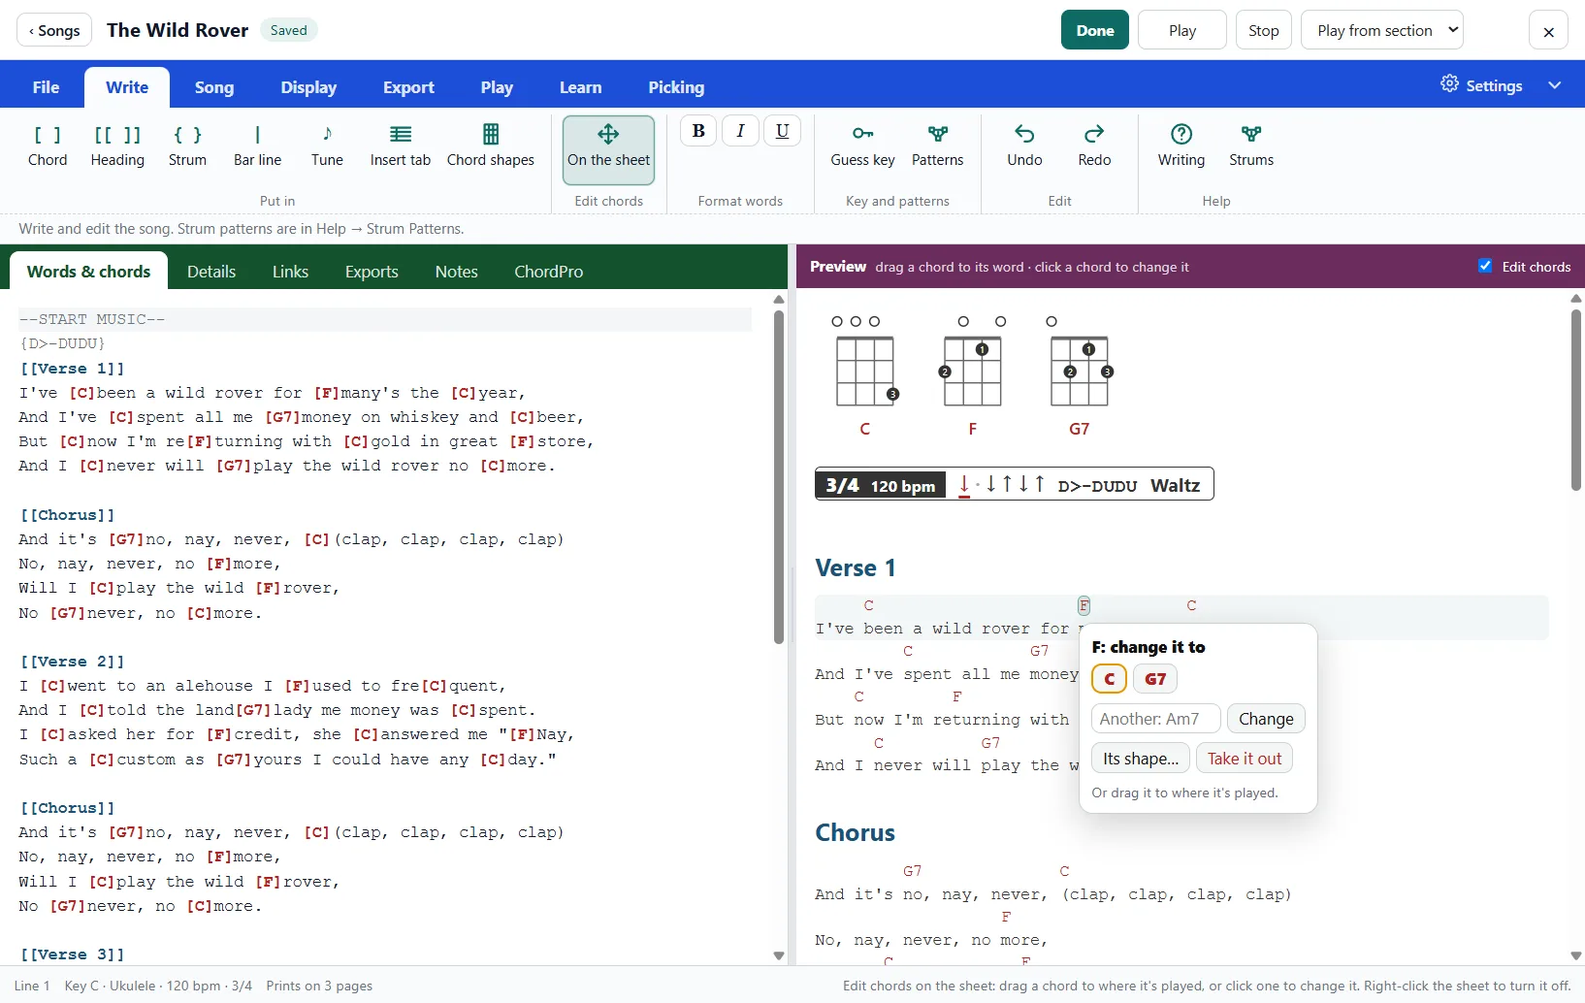
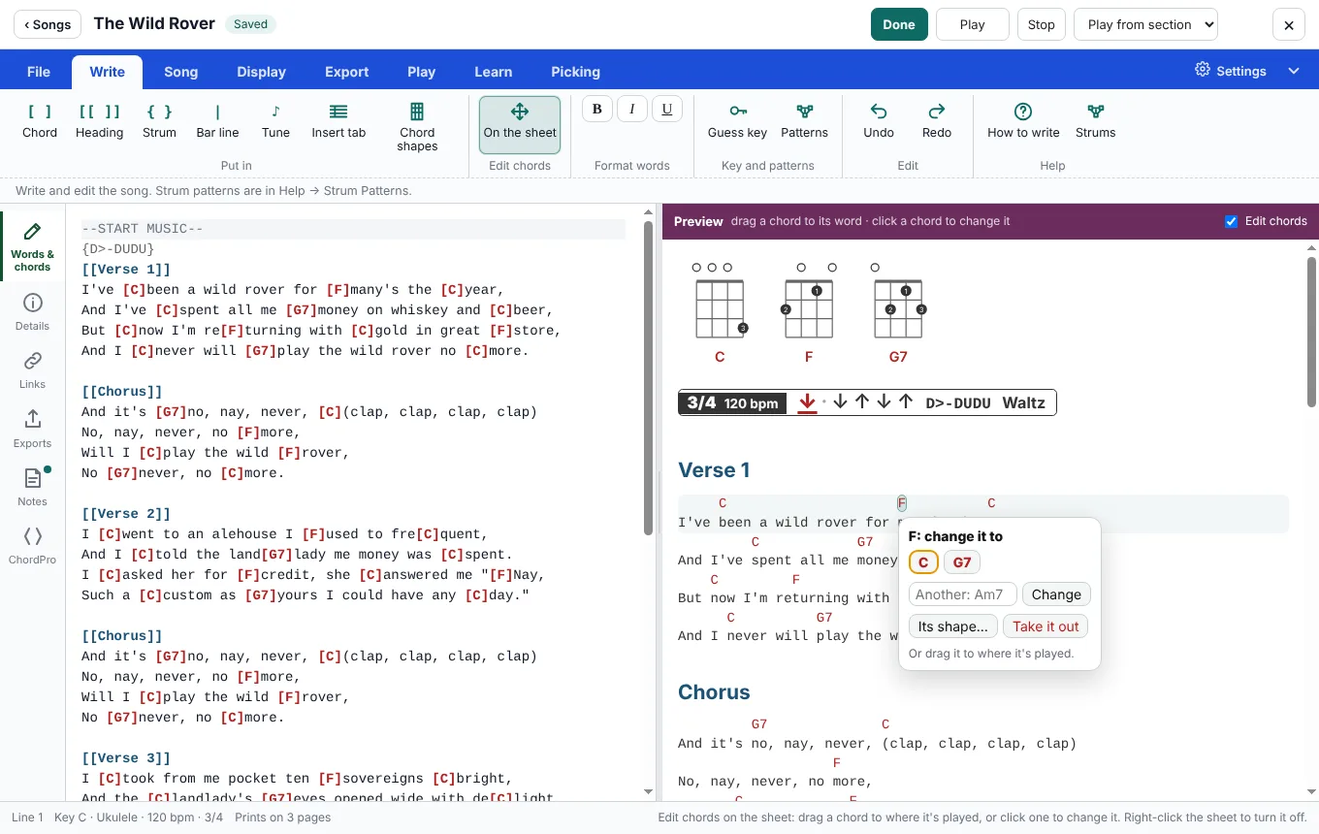
v4.98.0: song tabs as a rail down the left; hide the column while reading
Claude-Session: https://claude.ai/code/session_01UbrCRY8oACMXjLtCFCbaus

diff --git a/index.html b/index.html
@@ -121,7 +121,7 @@
       html[data-editing] #editWordsButton { background: var(--accent); color: #fff; }
       /* 4.95.1: reading, the song's Details, Links, Exports, Notes and ChordPro stay beside the sheet,
          in a narrower column; only Words & chords waits for Edit words & chords */
-      html:not([data-editing]) .workspace { grid-template-columns: minmax(260px, 0.6fr) 6px minmax(0, 1.4fr) !important; }
+      html:not([data-editing]) .workspace { grid-template-columns: minmax(330px, 0.6fr) 6px minmax(0, 1.4fr) !important; }
       html:not([data-editing]) [data-edit-only] { display: none !important; }
       html:not([data-editing]) .preview-head, html:not([data-editing]) #cursorLabel { display: none; }
       /* 4.94: reading, a firm line between the tools and the song */
@@ -676,49 +676,68 @@
       .shape-own input { font: 600 15px Consolas, "Courier New", monospace; width: 160px; }
 
 
+      /* 4.98: the song's sections are a rail of tabs down the left edge, so the column beside it keeps
+         its width for the words; reading, the column can be hidden and the sheet has the width */
       .editor-panel {
         display: grid;
-        grid-template-rows: auto 1fr;
+        grid-template-columns: 68px minmax(0, 1fr);
+        grid-template-rows: minmax(0, 1fr);
       }
 
       .editor-tabs {
-        min-height: 37px;
-        background: var(--edit-green) !important;
-        border-bottom-color: var(--edit-green) !important;
         display: flex;
-        align-items: center;
+        flex-direction: column;
+        align-items: stretch;
         gap: 2px;
-        padding: 6px 8px 0;
-        border-bottom: 1px solid var(--border);
+        padding: 8px 0;
         background: var(--status-bg);
+        border-right: 1px solid var(--border);
+        overflow-y: auto;
+        min-height: 0;
       }
 
       .editor-tabs button {
-        border: 1px solid transparent;
-        border-bottom: 0;
+        position: relative;
+        display: flex;
+        flex-direction: column;
+        align-items: center;
+        gap: 3px;
+        border: 0;
+        border-left: 3px solid transparent;
         background: transparent;
         color: var(--muted);
-        border-radius: 8px 8px 0 0;
-        padding: 6px 14px;
+        padding: 8px 4px 7px 1px;
         font: inherit;
+        font-size: 11px;
+        line-height: 1.2;
+        text-align: center;
         cursor: pointer;
-        margin-bottom: -1px;
       }
-
+      .editor-tabs button:hover { background: var(--accent-soft); color: var(--text); }
       .editor-tabs button.active {
         background: var(--panel-bg);
-        border-color: var(--panel-bg);
+        border-left-color: var(--edit-green);
         color: var(--edit-green);
         font-weight: 700;
       }
-      .editor-tabs button:not(.active) { color: rgba(255, 255, 255, 0.85); }
-      .editor-tabs button:not(.active):hover { color: #fff; }
-      .editor-tabs .notes-status { color: rgba(255, 255, 255, 0.8); }
+      .editor-tabs button svg { flex: none; }
+      .editor-tabs .rail-label { overflow-wrap: anywhere; }
+      /* A dot on Notes when the song has notes */
+      #tabNotes.has-notes::after { content: ""; position: absolute; top: 7px; right: 14px; width: 8px; height: 8px; border-radius: 50%; background: var(--accent); }
+      .editor-tabs .rail-toggle { margin-top: auto; }
+      html[data-editing] .editor-tabs [data-read-only] { display: none; }
+      /* Hidden: the rail stays, and the sheet has the rest */
+      html[data-panel-closed]:not([data-editing]) .workspace { grid-template-columns: 68px 0 minmax(0, 1fr) !important; }
+      html[data-panel-closed]:not([data-editing]) .editor-body { display: none; }
+      html[data-panel-closed]:not([data-editing]) #splitter { visibility: hidden; }
+      html[data-panel-closed]:not([data-editing]) .editor-tabs button.active { background: transparent; border-left-color: transparent; color: var(--muted); font-weight: 400; }
+      html[data-panel-closed]:not([data-editing]) .rail-toggle svg { transform: scaleX(-1); }
 
       .notes-status {
-        margin-left: auto;
-        font-size: 12px;
+        font-size: 11px;
         color: var(--muted);
+        text-align: center;
+        padding: 4px 2px;
       }
 
       .editor-body {
@@ -2940,14 +2959,15 @@
 
       <div class="workspace" id="workspace">
         <section class="panel editor-panel">
-          <div class="editor-tabs" role="tablist">
-            <button id="tabSong" type="button" role="tab" class="active" data-edit-only>Words &amp; chords</button>
-            <button id="tabDetails" type="button" role="tab" title="About the song: artist, year, written by, album, source, tags, difficulty and its key">Details</button>
-            <button id="tabLinks" data-feature="songLinks" type="button" role="tab" title="Web pages for the song: the original on YouTube, a uke play-along, a lesson, Wikipedia">Links</button>
-            <button id="tabExports" data-feature="songExports" type="button" role="tab" title="Everything exported for this song: look at it, see what's out of date, delete it">Exports</button>
-            <button id="tabNotes" type="button" role="tab" title="Your notes on the song, and its history">Notes</button>
-            <button id="tabChordPro" data-feature="songChordPro" type="button" role="tab" title="The song's ChordPro fields: everything from an imported ChordPro file is kept here, and written out again in ChordPro exports">ChordPro</button>
+          <div class="editor-tabs" role="tablist" aria-orientation="vertical">
+            <button id="tabSong" type="button" role="tab" class="active" data-edit-only title="The song's words and chords, to change"><span data-icon="rename"></span><span class="rail-label">Words &amp; chords</span></button>
+            <button id="tabDetails" type="button" role="tab" title="About the song: artist, year, written by, album, source, tags, difficulty and its key"><span data-icon="info"></span><span class="rail-label">Details</span></button>
+            <button id="tabLinks" data-feature="songLinks" type="button" role="tab" title="Web pages for the song: the original on YouTube, a uke play-along, a lesson, Wikipedia"><span data-icon="link"></span><span class="rail-label">Links</span></button>
+            <button id="tabExports" data-feature="songExports" type="button" role="tab" title="Everything exported for this song: look at it, see what's out of date, delete it"><span data-icon="export"></span><span class="rail-label">Exports</span></button>
+            <button id="tabNotes" type="button" role="tab" title="Your notes on the song, and its history"><span data-icon="note"></span><span class="rail-label">Notes</span></button>
+            <button id="tabChordPro" data-feature="songChordPro" type="button" role="tab" title="The song's ChordPro fields: everything from an imported ChordPro file is kept here, and written out again in ChordPro exports"><span data-icon="cho"></span><span class="rail-label">ChordPro</span></button>
             <span id="notesStatus" class="notes-status"></span>
+            <button id="panelToggle" class="rail-toggle" type="button" data-read-only title="Hide this column, so the song has the width"><span data-icon="chevronLeft"></span><span class="rail-label">Hide</span></button>
           </div>
           <div class="editor-body">
             <div id="editorHost" class="editor-host"></div>
@@ -7127,6 +7147,9 @@ The [F]curly brackets at the top set the [C]strum: D down, U up.
             ? 'Notes about this song: key, capo, where it came from, things to practise…'
             : 'Save the song to keep notes with it.';
           notesStatus.textContent = '';
+          // 4.98: a dot on Notes; and, until you've chosen, the column shows for a song with notes
+          const hasNotes = markSongNotes();
+          if (songPanelChoice() === null) setSongPanelClosed(!hasNotes, { remember: false });
         }
 
         async function flushNotes() {
@@ -7152,6 +7175,7 @@ The [F]curly brackets at the top set the [C]strum: D down, U up.
           try {
             state.notes = await window.ukemusic.addImportNotes({ folder: state.song.folder, text });
             notesEditor.value = state.notes;
+            markSongNotes();
           } catch (error) {
             window.ukemusicLogError('Could not add to notes.txt', error);
           }
@@ -7163,6 +7187,7 @@ The [F]curly brackets at the top set the [C]strum: D down, U up.
           try {
             state.notes = await window.ukemusic.appendNote({ folder: state.song.folder, line });
             notesEditor.value = state.notes;
+            markSongNotes();
           } catch (error) {
             window.ukemusicLogError('Could not add to notes.txt', error);
           }
@@ -7172,6 +7197,7 @@ The [F]curly brackets at the top set the [C]strum: D down, U up.
           notesPending = true;
           window.ukemusic.setNotesPending(true);
           notesStatus.textContent = 'Saving…';
+          markSongNotes();
           clearTimeout(notesTimer);
           notesTimer = setTimeout(flushNotes, 800);
         });
@@ -11018,6 +11044,34 @@ function showTab(tab) {
         document.getElementById('tabExports').addEventListener('click', () => showTab('exports'));
         document.getElementById('tabChordPro').addEventListener('click', () => showTab('chordpro'));
 
+        // 4.98: reading, the song's column can be hidden so the sheet has the width. Click the open
+        // tab (or Hide) to hide it; any tab shows it again. Kept between songs; until you choose, it
+        // shows for a song with notes and hides for one without.
+        function songPanelChoice() {
+          try { return localStorage.getItem('ukemusic.songPanelClosed'); } catch (_err) { return null; }
+        }
+        function setSongPanelClosed(closed, { remember = true } = {}) {
+          const was = document.documentElement.hasAttribute('data-panel-closed');
+          document.documentElement.toggleAttribute('data-panel-closed', Boolean(closed));
+          const toggle = document.getElementById('panelToggle');
+          toggle.querySelector('.rail-label').textContent = closed ? 'Show' : 'Hide';
+          toggle.title = closed ? 'Show the column beside the song' : 'Hide this column, so the song has the width';
+          if (remember) { try { localStorage.setItem('ukemusic.songPanelClosed', closed ? '1' : '0'); } catch (_err) { /* this time only */ } }
+          if (was !== Boolean(closed) && !isEditing()) requestAnimationFrame(() => window.dispatchEvent(new Event('resize')));
+        }
+        document.querySelector('.editor-tabs').addEventListener('click', (event) => {
+          const button = event.target.closest('button[role="tab"]');
+          if (!button || isEditing()) return;
+          if (document.documentElement.hasAttribute('data-panel-closed')) setSongPanelClosed(false);
+          else if (button.classList.contains('active')) { setSongPanelClosed(true); event.stopPropagation(); }
+        }, true);
+        document.getElementById('panelToggle').addEventListener('click', () => setSongPanelClosed(!document.documentElement.hasAttribute('data-panel-closed')));
+        function markSongNotes() {
+          const has = Boolean(notesEditor.value.trim());
+          document.getElementById('tabNotes').classList.toggle('has-notes', has);
+          return has;
+        }
+
         // ── ChordPro tab (4.27): the song's ChordPro fields, kept in chordpro.txt ──
         // Linked fields show (and change) the song's own value; the rest are kept as they were.
         const CP_LINKS = {
@@ -12448,6 +12502,10 @@ function showTab(tab) {
           web: 'M12 21a9 9 0 1 0 0-18 9 9 0 0 0 0 18zM3 12h18M12 3c3 3 3 15 0 18M12 3c-3 3-3 15 0 18',
           lyrics: 'M4 6h16M4 10h16M4 14h10M4 18h8',
           cho: 'M8 4L4 12l4 8M16 4l4 8-4 8',
+          info: 'M12 21a9 9 0 1 0 0-18 9 9 0 0 0 0 18zM12 11v6M12 7.5h.01',
+          link: 'M10 14a4 4 0 0 0 5.66 0l3-3a4 4 0 0 0-5.66-5.66l-1 1M14 10a4 4 0 0 0-5.66 0l-3 3a4 4 0 0 0 5.66 5.66l1-1',
+          note: 'M5 3h10l4 4v14H5zM15 3v4h4M8 12h8M8 16h6',
+          chevronLeft: 'M15 5l-7 7 7 7',
           shape: 'M6 3h12v18H6zM10 3v18M14 3v18M6 8h12M6 13h12M10 10.5h.01M14 15.5h.01',
           setlist: 'M8 6h12M8 12h12M8 18h12M4 6h.01M4 12h.01M4 18h.01',
           help: 'M12 21a9 9 0 1 0 0-18 9 9 0 0 0 0 18zM9.5 9a2.5 2.5 0 1 1 3.5 2.3c-.6.3-1 .9-1 1.6v.6M12 17h.01',

diff --git a/test/v498.test.js b/test/v498.test.js
@@ -1,0 +1,32 @@
+// 4.98: the song's sections are a rail of tabs down the left edge; reading, the column beside it can be hidden
+const assert = require('assert');
+const fs = require('fs');
+const path = require('path');
+function test(name, fn) {
+  try { fn(); console.log(`✓ ${name}`); } catch (error) { console.error(`✗ ${name}`); throw error; }
+}
+const DESKTOP = fs.readFileSync(path.join(__dirname, '..', 'index.html'), 'utf8').replace(/\r\n/g, '\n');
+
+test('the tabs are a rail down the left, each an icon with its name', () => {
+  assert.ok(DESKTOP.includes('<div class="editor-tabs" role="tablist" aria-orientation="vertical">'));
+  assert.ok(DESKTOP.includes('grid-template-columns: 68px minmax(0, 1fr);'));
+  for (const [id, icon, label] of [['tabSong', 'rename', 'Words &amp; chords'], ['tabDetails', 'info', 'Details'], ['tabLinks', 'link', 'Links'], ['tabExports', 'export', 'Exports'], ['tabNotes', 'note', 'Notes'], ['tabChordPro', 'cho', 'ChordPro']]) {
+    assert.match(DESKTOP, new RegExp(`<button id="${id}"[^>]*><span data-icon="${icon}"></span><span class="rail-label">${label}</span></button>`), id);
+  }
+  for (const icon of ['info', 'link', 'note', 'chevronLeft']) assert.match(DESKTOP, new RegExp(`\\n          ${icon}: '`), icon);
+});
+
+test('reading, the column hides: the open tab or Hide; any tab shows it; kept between songs', () => {
+  assert.ok(DESKTOP.includes('<button id="panelToggle" class="rail-toggle" type="button" data-read-only'));
+  assert.ok(DESKTOP.includes('html[data-panel-closed]:not([data-editing]) .workspace { grid-template-columns: 68px 0 minmax(0, 1fr) !important; }'));
+  assert.ok(DESKTOP.includes('html[data-panel-closed]:not([data-editing]) #splitter { visibility: hidden; }'), 'the splitter keeps its grid place');
+  assert.ok(DESKTOP.includes("else if (button.classList.contains('active')) { setSongPanelClosed(true); event.stopPropagation(); }"));
+  assert.ok(DESKTOP.includes("localStorage.setItem('ukemusic.songPanelClosed', closed ? '1' : '0')"));
+  assert.ok(DESKTOP.includes('if (songPanelChoice() === null) setSongPanelClosed(!hasNotes, { remember: false });'));
+  assert.ok(DESKTOP.includes('html[data-editing] .editor-tabs [data-read-only] { display: none; }'), 'editing, the column is always there');
+});
+
+test('a dot on Notes when the song has notes', () => {
+  assert.ok(DESKTOP.includes('#tabNotes.has-notes::after'));
+  assert.ok((DESKTOP.match(/markSongNotes\(\);/g) || []).length >= 3);
+});

diff --git a/test/v4951.test.js b/test/v4951.test.js
@@ -11,9 +11,9 @@ function test(name, fn) {
 const DESKTOP = fs.readFileSync(path.join(__dirname, '..', 'index.html'), 'utf8').replace(/\r\n/g, '\n');
 
 test('the song\'s other tabs while reading; Words & chords while editing', () => {
-  assert.ok(DESKTOP.includes('html:not([data-editing]) .workspace { grid-template-columns: minmax(260px, 0.6fr) 6px minmax(0, 1.4fr) !important; }'));
+  assert.ok(DESKTOP.includes('html:not([data-editing]) .workspace { grid-template-columns: minmax(330px, 0.6fr) 6px minmax(0, 1.4fr) !important; }'));
   assert.ok(!DESKTOP.includes('html:not([data-editing]) .workspace > .editor-panel'), 'the column isn\'t hidden');
-  assert.ok(DESKTOP.includes('<button id="tabSong" type="button" role="tab" class="active" data-edit-only>Words &amp; chords</button>'));
+  assert.match(DESKTOP, /<button id="tabSong" [^>]*data-edit-only[^>]*>.*Words &amp; chords/); // 4.98: in the rail
   assert.ok(DESKTOP.includes("if (on && !was) showTab('song');"));
   assert.ok(DESKTOP.includes("if (!on && document.getElementById('tabSong').classList.contains('active')) showTab(state.readingTab || (notesEditor.value.trim() ? 'notes' : 'details'));"));
   assert.match(DESKTOP, /if \(!isEditing\(\)\) state\.readingTab = tab;/);

diff --git a/test/v493.test.js b/test/v493.test.js
@@ -18,8 +18,8 @@ const F = require('../src/feature-levels.js');
 
 test('the song opens as the sheet: the editor, the Write tab and Tidy chords only while editing', () => {
   // 4.95.1: reading, the song's other tabs stay beside the sheet; only Words & chords waits for editing
-  assert.ok(DESKTOP.includes('html:not([data-editing]) .workspace { grid-template-columns: minmax(260px, 0.6fr) 6px minmax(0, 1.4fr) !important; }'));
-  assert.match(DESKTOP, /<button id="tabSong" type="button" role="tab" class="active" data-edit-only>Words &amp; chords<\/button>/);
+  assert.ok(DESKTOP.includes('html:not([data-editing]) .workspace { grid-template-columns: minmax(330px, 0.6fr) 6px minmax(0, 1.4fr) !important; }'));
+  assert.match(DESKTOP, /<button id="tabSong" type="button" role="tab" class="active" data-edit-only[^>]*><span data-icon="rename"><\/span><span class="rail-label">Words &amp; chords<\/span><\/button>/); // 4.98: in the rail
   assert.ok(DESKTOP.includes('html:not([data-editing]) [data-edit-only] { display: none !important; }'));
   assert.match(DESKTOP, /<button id="ribbonTabWrite" data-edit-only class="ribbon-tab"/);
   assert.match(DESKTOP, /<button id="convertLinesButton" data-feature="tidy" data-edit-only/);

diff --git a/HANDOVER.md b/HANDOVER.md
@@ -897,6 +897,7 @@ Full description: **INSTRUMENTS.md** (users and developers).
 | 4.96.0 | Simple view reviewed: more in it where it made little difference; Settings starts with instrument and the simple view; home Settings is for all songs |
 | 4.97.0 | A user guide for phones and tablets, with iPhone pictures; linked from the top of the main guide |
 | 4.97.1 | One name, How to write songs; the user guides get Writing a song: the basics, and links to it and to ChordPro |
+| 4.98.0 | Song tabs as a rail down the left; the column can be hidden while reading |
 | 4.53.0 (ribbon layout) | index.html ribbon rebuilt to one standard (`/* ── 4.53: the ribbon's layout ── */` at the end of the main style block): `.rib-group` = `.rib-items` (height `--rib-h`, 62px) over `.rib-label`; large `.rib-button`s; `.rib-col` = up to two rows of `--rib-row` (28px) small controls (`.rib-field`, `.rib-row`, `.rib-check`, `.rib-small`, `.rib-note`); a column whose fields have labels becomes a two-column grid (labels right-aligned, controls lined up). One setting in a group: no label (aria-label instead), the group names it. `.ribbon-panel` doesn't wrap: `foldRibbon()` folds groups from the right into generated `.rib-fold` buttons (`.rib-group.folded`, `.open` shows the group as a popover); runs on resize; `revealElement` opens a folded group. Own-setting mark moved to the group caption (`:has(.rib-own)`). Tab renamed Picking. `#writtenAccompaniment` goes in the strum column's second row. Tests: test/ribbon-layout.test.js. |
 | 4.53.0 | Ribbon buttons: content-sized (56px minimum, 88px usual maximum, 104px for long labels), top-aligned controls and retained icons when Play/Pause changes. File/Write use the requested short labels; Archive removed from File, Strums moved to native Help; This song renamed Song with its panel unchanged. `src/song-ui.js` shares `setControlLabel` and `memoryPlayLabel` across desktop/web. Learn labels describe chord visibility; “Play in new key”, “Practise trouble spots”, “Circle of fifths”; Pick “Choose picking” retains current-line insertion. Ribbon panels share one CSS grid row for stable height; inactive panels are invisible and inert. Section captions replace repeated upper labels; compact loop wording and Auto feel/Even selections retain existing values. The screenshot review checks equal header heights at 1440 and 1120px. Playback behaviour is unchanged. `test/song-ui-labels.test.js` covers labels, retained icons and targeted review arguments. UI review preserves the first app argument and supports section filters for iPad/iPhone as well as desktop. |
 | 2.5.0 | Initial release. Parser, HTML/Markdown renderers, Electron UI, CodeMirror, live preview, diagrams, tablature, INI config, editable stylesheet. |

diff --git a/docs/user-guide.md b/docs/user-guide.md
@@ -67,7 +67,10 @@ Paste a chord sheet from a website and ukemusic writes most of this for you. Eve
 
 ## A song: reading and editing
 
-A song opens as the sheet to play from. Beside it, in a narrower column, are the song's **Details** (artist, year, key, tempo, time, tags), **Notes**, **Links**, **Exports** and **ChordPro** fields. The column opens on the notes, if the song has any, or on the tab you last looked at.
+A song opens as the sheet to play from. Down the left edge is a strip of the song's tabs: **Details** (artist, year, key, tempo, time, tags), **Links**, **Exports**, **Notes** and **ChordPro** fields. Click one and it opens in a column beside the sheet; it opens on the notes, if the song has any (a dot on **Notes** says so), or on the tab you last looked at.
+
+- Click the open tab again, or **Hide** at the bottom of the strip, and the sheet has the whole width. Any tab (or **Show**) brings the column back.
+- ukemusic keeps it the way you left it, from song to song.
 
 ![A song open as the sheet, with its notes beside it and the tools above it](../site/img/guide/desktop-S1.jpg)
 
@@ -88,7 +91,7 @@ Press **✎ Edit words & chords**. The words and chords are on the left, the she
 
 - Type the words with the chords in square brackets (see [Writing a song: the basics](#writing-a-song-the-basics)); [How to write songs](../WRITING.md) has everything else you can type.
 - The **Write** tab has buttons for what's harder to type (a chord, a heading, a strum, a bar line, tab), Undo and Redo, and **How to write** (F1), which opens [How to write songs](../WRITING.md) in the app.
-- **Words & chords** joins the song's other tabs while you edit; **Done** goes back to the tab you were reading.
+- **Words & chords** joins the top of the strip while you edit, and the column is always open; **Done** goes back to the tab you were reading (or to the sheet alone, if the column was hidden).
 
 **Edit chords on the sheet** lets you move chords with the mouse instead: turn it on with **Write → On the sheet**, the **Edit chords** box over the sheet, or a right-click on the sheet. Then drag a chord to the word where it's played, click a chord to change it or take it out, or click in the words to put one there.
 

diff --git a/README.md b/README.md
@@ -167,7 +167,7 @@ The guides and the changelog are pages of [the website](https://markbeachill.git
 ## Getting around the desktop app
 
 - ukemusic opens on **Songs** (the library), with **Free Practice** the other tab at the top. Songs show as tiles, or as a list with every detail (the choice is kept). **New song** asks how: paste one from a website, write your own, or import a file. Three old, copyright-free starter songs show how songs are written.
-- A song opens as the **sheet to play from**, with its Details, Notes, Links, Exports and ChordPro fields in a narrower column beside it. **✎ Edit words & chords** (or F2) shows the words and chords beside it to change them, and **Done** goes back; **×** at the top right closes the song. A new or imported song opens ready to change (Settings → Opening a song can make every song open that way). Anything you change, editing or not (the words, or the tempo or picking pattern while playing), waits for **Save** or **Discard**, at the top beside the song's name.
+- A song opens as the **sheet to play from**, with a strip of tabs down the left for its Details, Links, Exports, Notes and ChordPro fields: one opens in a column beside the sheet, and clicking it again hides the column so the sheet has the width. **✎ Edit words & chords** (or F2) shows the words and chords beside it to change them, and **Done** goes back; **×** at the top right closes the song. A new or imported song opens ready to change (Settings → Opening a song can make every song open that way). Anything you change, editing or not (the words, or the tempo or picking pattern while playing), waits for **Save** or **Discard**, at the top beside the song's name.
 - In a song, the tabs hold everything (File → Close goes back to your songs). **View** has the look (diagrams, text size, strum style, layout) and **Export** makes PDFs and other files in one click:
   - **File**: close, save, save as new, rename, import, paste, add to setlist;
   - **Write**: tab, strums, suggest the key, chords into words (for songs copied from websites), How to write (the guide);

diff --git a/CHANGELOG.md b/CHANGELOG.md
@@ -1,5 +1,12 @@
 # Changelog
 
+## v4.98.0
+
+- **The song's tabs are a rail down the left edge.** Details, Links, Exports, Notes and ChordPro are a narrow strip of icons with their names, so the column beside the sheet keeps its width for the words (Words & chords joins the top while you edit).
+- **Hide the column while reading.** Click the open tab again, or **Hide** at the bottom of the strip, and the sheet has the whole width; any tab (or **Show**) brings it back. It stays the way you left it from song to song; until you choose, it shows for a song with notes.
+- **A dot on Notes** when the song has notes.
+- The user guide, README and pictures show the rail.
+
 ## v4.97.1
 
 - The guide to everything you can type in a song now has one name everywhere: **How to write songs**. Before, it was "the song guide" on the website, "Writing" on the Write tab, and "How to write songs" in Help and the web player. The Write tab's button is now **How to write** (F1).
